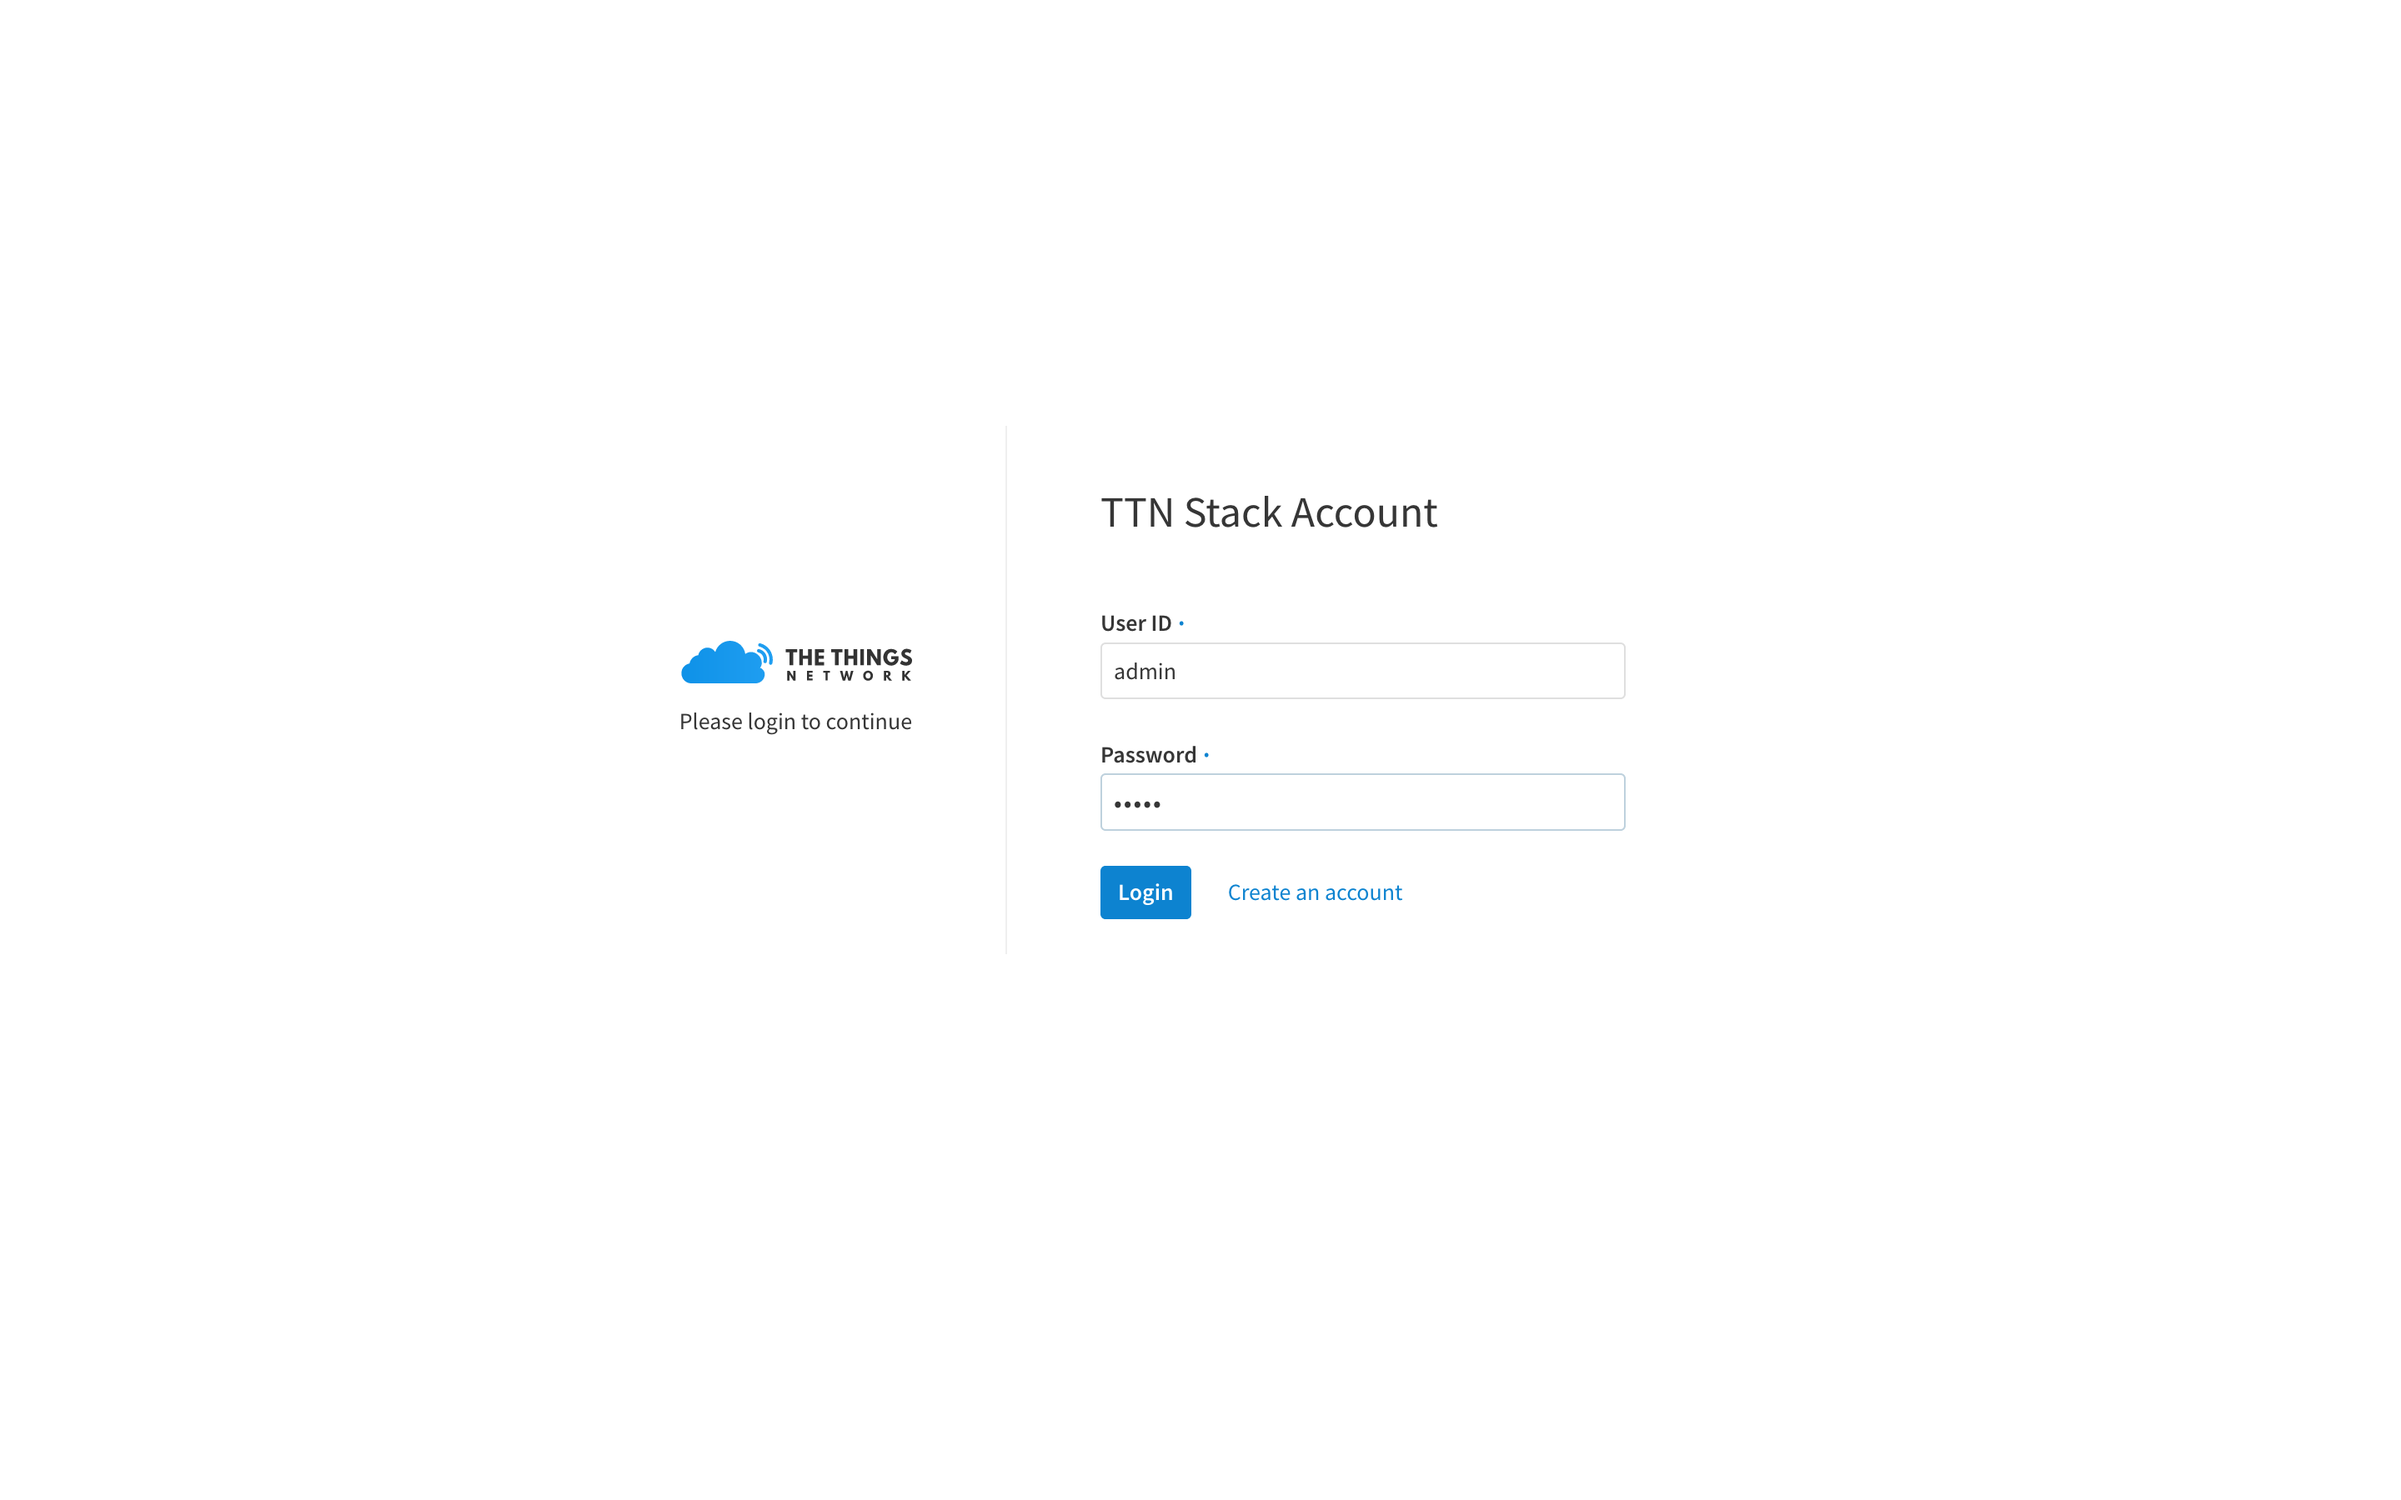
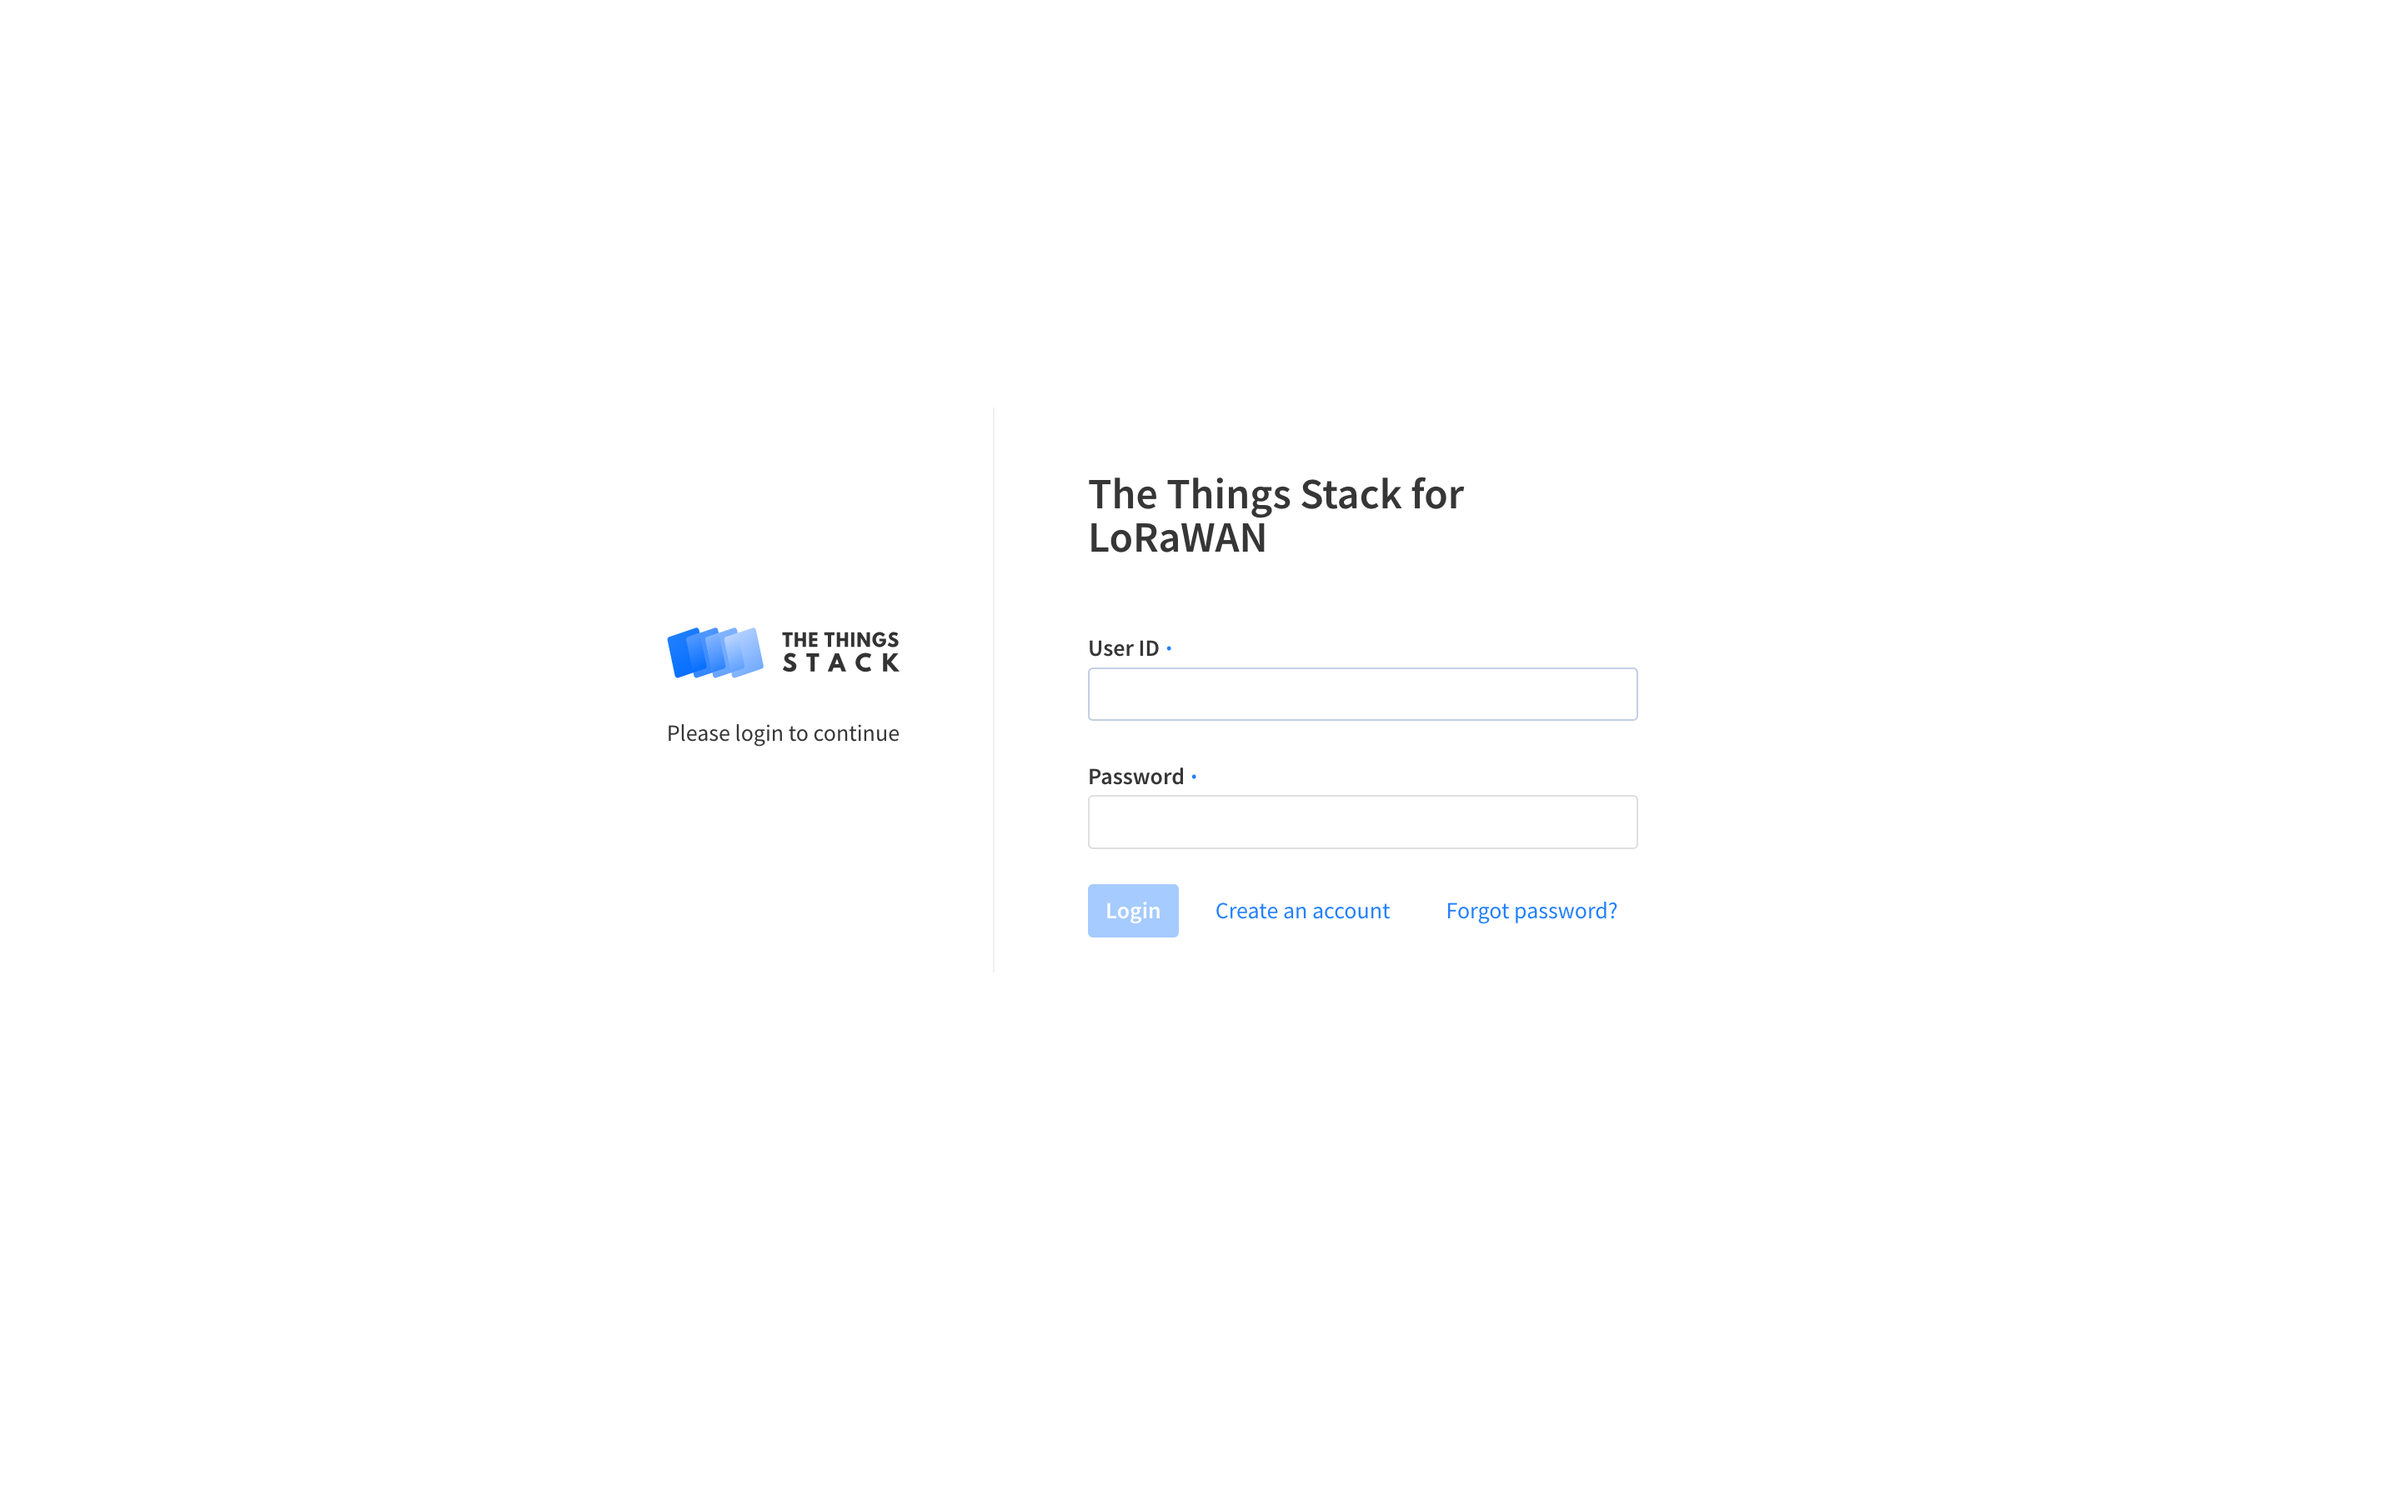
doc: Add step for user registration

diff --git a/doc/content/guides/getting-started/cli/_index.md b/doc/content/guides/getting-started/cli/_index.md
@@ -6,7 +6,22 @@ weight: 10
 
 ## Configuration
 
-If you have not configured the CLI yet, see the [**Configuration** step]({{< relref "../configuration.md#command-line-interface" >}}).
+The command-line needs to be configured to connect to your deployment on `thethings.example.com`. The recommended way to configure the CLI is with a `.ttn-lw-cli.yml` in your `$XDG_CONFIG_HOME` or `$HOME` directory.
+
+```yaml
+oauth-server-address: 'https://thethings.example.com/oauth'
+
+identity-server-grpc-address: 'thethings.example.com:8884'
+gateway-server-grpc-address: 'thethings.example.com:8884'
+network-server-grpc-address: 'thethings.example.com:8884'
+application-server-grpc-address: 'thethings.example.com:8884'
+join-server-grpc-address: 'thethings.example.com:8884'
+device-claiming-server-grpc-address: 'thethings.example.com:8884'
+device-template-converter-grpc-address: 'thethings.example.com:8884'
+qr-code-generator-grpc-address: 'thethings.example.com:8884'
+```
+
+If you did not put the configuration file in the recommended location, you need to point the CLI to that file every time you use the CLI. You can do that by passing the path to the config file as a command-line flag `-c /path/to/config.yml` or by setting an environment variable `export TTN_LW_CONFIG=/path/to/config.yml`.
 
 ## Login
 
@@ -16,9 +31,9 @@ The CLI needs to be logged on in order to create gateways, applications, devices
 $ ttn-lw-cli login
 ```
 
-This will open the OAuth login page where you can login with your credentials. Once you logged in in the browser, return to the terminal session to proceed.
+This will open a browser window with the OAuth login page where you can login with your credentials. This is also where you can create a new account if you do not already have one.
 
-If you run this command on a remote machine, pass `--callback=false` to get a link to login on your local machine.
+> During the login procedure, the CLI starts a webserver on `localhost` in order to receive the OAuth callback after login. If you are running the CLI on a machine that is not `localhost`, you can pass the `--callback=false` flag. This will allow you to perform part of the OAuth flow on a different machine, and copy-paste a code back into the CLI.
 
 ## Create Gateway
 

diff --git a/doc/content/guides/getting-started/configuration.md b/doc/content/guides/getting-started/configuration.md
@@ -147,20 +147,3 @@ TTN_LW_CONSOLE_OAUTH_CLIENT_SECRET=... # choose or generate a secret
 ```
 
 You will need the `TTN_LW_CONSOLE_OAUTH_CLIENT_SECRET` again in a later step.
-
-## Command-line interface
-
-The command-line interface is configured to connect to `localhost` by default. In order to make it connect to `thethings.example.com`, you need to configure it with a configuration file. The recommended way to configure the CLI is with a `.ttn-lw-cli.yml` in your `$XDG_CONFIG_HOME` or `$HOME` directory. You can also put the config file in a different location, and pass it to the CLI as `-c path/to/config.yml`. Your config file should look like this:
-
-```yaml
-oauth-server-address: 'https://thethings.example.com/oauth'
-
-identity-server-grpc-address: 'thethings.example.com:8884'
-gateway-server-grpc-address: 'thethings.example.com:8884'
-network-server-grpc-address: 'thethings.example.com:8884'
-application-server-grpc-address: 'thethings.example.com:8884'
-join-server-grpc-address: 'thethings.example.com:8884'
-device-claiming-server-grpc-address: 'thethings.example.com:8884'
-device-template-converter-grpc-address: 'thethings.example.com:8884'
-qr-code-generator-grpc-address: 'thethings.example.com:8884'
-```

diff --git a/doc/content/guides/getting-started/console/_index.md b/doc/content/guides/getting-started/console/_index.md
@@ -4,7 +4,6 @@ description: ""
 weight: 8
 ---
 
-
 ## Login
 
 The Console needs to be logged on in order to create gateways, applications, devices and API keys. With The Things Stack running, open `https://thethings.example.com` (replace with the URL of your deployment) in your browser.
@@ -15,7 +14,13 @@ You are now on the Console landing page. Click **Login with your The Things Stac
 
 {{< figure src="login.png" alt="Login" >}}
 
-After entering your credentials and logging in, you will reach the Console overview page. You can now fully use the capabilities of the Console.
+If you do not have an account yet, you can register one by clicking **Create an account**, filling your details and clicking **Register**.
+
+{{< figure src="register.png" alt="Create an account" >}}
+
+When you use a new account, you may not be able to continue until you have confirmed your email address or your account is approved by an admin user.
+
+After entering your credentials and logging in, you will reach the Console overview page.
 
 {{< figure src="overview.png" alt="Overview" >}}
 

diff --git a/doc/content/reference/configuration/cli.md b/doc/content/reference/configuration/cli.md
@@ -27,7 +27,7 @@ By default the CLI uses JSON as the input and output format. It is also possible
 
 ## API Options
 
-The CLI needs to be configured with the addresses of the OAuth server. The [Getting Started guide]({{< ref "/guides/getting-started/configuration.md#command-line-interface" >}}) gives a good example configuration for a typical deployment.
+The CLI needs to be configured with the addresses of the OAuth server. The [Getting Started guide]({{< ref "/guides/getting-started/cli#configuration" >}}) gives a good example configuration for a typical deployment.
 
 - `oauth-server-address`: OAuth Server address
 - `identity-server-grpc-address`: Identity Server address
